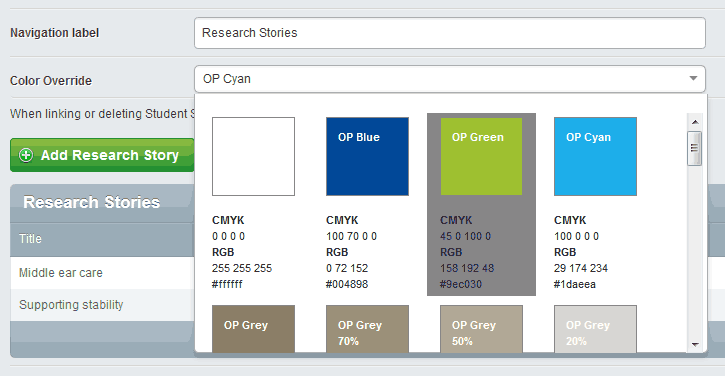
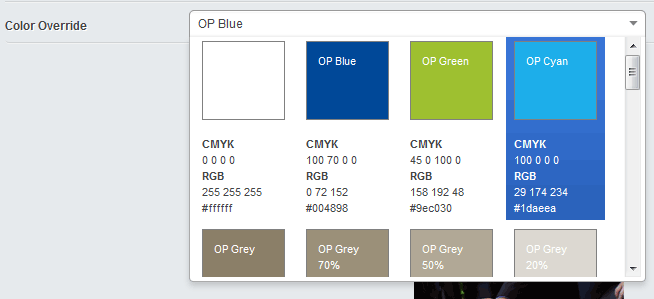
Added support to *UNIX filesystems. Fixed javascript to work better with entwine. fixed up css

diff --git a/javascript/OpColorField.js b/javascript/OpColorField.js
@@ -37,98 +37,57 @@ jQuery('.cms .field.opcolor').entwine({
 	},
 	redrawTabs: function() {
 		// adding the DOM for the  dropdown
-		var myid = jQuery(this).attr('id');
+		var selectcontainer = jQuery(this).children('.middleColumn').children('select');
+		var myid = selectcontainer.attr('id');
 		var _this = this;
+		
+		jQuery(_this).find('select').on('liszt:showing_dropdown', function () {
+			_this.find('li').hide();
+			_this.find('.chzn-search').remove();
+			rebuilddropdown(_this);
+		})
 		
 		if(jQuery('.opcolor').find('.chzn-container').size() == 0) {
 			if(jQuery(this).find('.chzn-container').size() > 0) 
 				return;
 
-			try {
-				var windowtitle = window._opcolor[myid + this.hashCode(window.location.href)];
-				//defaultColor = windowtitle;
-				jQuery(this).find('.currentTitle').html(windowtitle);
-			} catch(err) { }
-			
 			var checkColor = jQuery(this).find('.currentTitle').html();
 
-			if(checkColor == ''){
+			if(checkColor == '') {
 				defaultColor = 'Select OP Color or No Color';
 			} else {
 				defaultColor = checkColor;
 			}
-
-			var mstr = '<div id="'+myid+'_chzn" class="chzn-container chzn-container-single" style="width: 630px;">\
-				<a class="chzn-single" href="javascript:void(0)" tabindex="0">\
-					<span>'+defaultColor+'</span><div><b></b></div>\
-				</a>\
-				<div class="chzn-drop">\
-					<div class="chzn-search">\
-						<ul class="chzn-results"></ul>\
-					</div>\
-				</div>\
-			</div>';
-
-			// create dropdown events
-			jQuery(this).find('.middleColumn').append(mstr);
-			jQuery(this).find('.chzn-drop').hide();
-			jQuery(this).find('select').each(function (){jQuery(this).hide();});
-			jQuery(this).find('.chzn-single').on('click', function (e){
-				if(jQuery(this).siblings('.chzn-drop').is(":visible")) {
-					jQuery(this).siblings('.chzn-drop').hide();
-					jQuery(this).siblings('.chzn-drop li').hide();
-				} else {
-					jQuery(this).siblings('.chzn-drop').show();
-					jQuery(this).siblings('.chzn-drop li').show();
-				}
-				e.stopPropagation();
-			});
-			var options = new Array();
-			jQuery("#"+myid+" option").each(function (){
-				options.push(this);
-			});
-			// populate the dropdown field with the colors
-			jQuery("#"+myid+"_chzn .chzn-results").each(function () {
-				var resultsdiv = jQuery(this);
-				jQuery.each(options, function (index, value) {
-					var rgb = jQuery(value).attr('data-rgb');
-					var hex = jQuery(value).attr('data-hex');
-					var cmyk = jQuery(value).attr('data-cmyk');
-					var myvalue = jQuery(value).attr('value');
-					var title = jQuery(value).html();
-					var spancolor = '<span data-value=\"'+myvalue+
-						'\" data-title=\"'+title+
-						'\" class=\"chzn-oppreview\" style=\"background-color:'+hex+'\"><span>'+
-						title+'</span></span><br/>';
-					var spantext = '<strong>CMYK</strong><br/><span class=\"textColors\">'+cmyk;
-					spantext = spantext+'</span><br/><strong>RGB</strong><br/><span class=\"textColors\">'+rgb;
-					spantext = spantext+'<br/>'+hex+'</span>';
-
-					resultsdiv.append('<li class=\"chzn-opcolor active-result\">'+
-						spancolor+spantext+'</li>');
+			
+			var rebuilddropdown = function (mydropdown) {
+				var options = new Array();
+				mydropdown.find('option').each(function (){
+					options.push(this);
 				});
+				// populate the dropdown field with the colors
+				mydropdown.find(".chzn-results").each(function () {
+					var resultsdiv = mydropdown.find('.chzn-results');
+					var idcount = 0;
+					jQuery.each(options, function (index, value) {
+						var rgb = jQuery(value).attr('data-rgb');
+						var hex = jQuery(value).attr('data-hex');
+						var cmyk = jQuery(value).attr('data-cmyk');
+						var myvalue = jQuery(value).attr('value');
+						var title = jQuery(value).html();
+						var spancolor = '<span data-value=\"'+myvalue+
+							'\" data-title=\"'+title+
+							'\" class=\"chzn-oppreview\" style=\"background-color:'+hex+'\"><span>'+
+							title+'</span></span><br/>';
+						var spantext = '<strong>CMYK</strong><br/><span class=\"textColors\">'+cmyk;
+						spantext = spantext+'</span><br/><strong>RGB</strong><br/><span class=\"textColors\">'+rgb;
+						spantext = spantext+'<br/>'+hex+'</span>';
 
-				// select item
-				jQuery(this).find('li').on('click', function(e) {
-					jQuery(this).find('.chzn-oppreview').each (function(){
-						var title = jQuery(this).attr('data-title');
-						var value = jQuery(this).attr('data-value');
-						jQuery('#'+myid+' select').val(value).trigger('change');
-						jQuery('#'+myid+' .chzn-single span').html(title);
-						if(!window._opcolor) window._opcolor = {};
-						window._opcolor[myid + _this.hashCode(window.location.href)] = title;
+						myid = myid + "_o_" + (idcount++);
+						resultsdiv.append('<li class=\"chzn-opcolor active-result\" id="'+myid+'">'+
+							spancolor+spantext+'</li>');
 					});
-
-					jQuery("#"+myid+" a.chzn-single").trigger('click');
-
-					e.stopPropagation();
 				});
-				
-				// deselect
-				jQuery(document).on('click', function (){
-					jQuery(_this).find('.chzn-drop').hide();
-				});
-			});
+			}
 		}
 		this.tabs();
 	}

diff --git a/css/OpColorField.css b/css/OpColorField.css
@@ -4,8 +4,8 @@
 	margin: 0 5px 5px 0;
 	cursor: pointer;
 }
-.opcolor .chzn-results .chzn-opcolor li {
-	padding: 4px 13px
+.opcolor .chzn-container .chzn-results li {
+	padding: 4px 8px
 }
 .opcolor .chzn-results .chzn-opcolor:hover {
 	background-color: #888;

diff --git a/code/OpColorField.php b/code/OpColorField.php
@@ -3,6 +3,7 @@
 class OpColorField extends DropdownField {
     
 	public function __construct($name, $title=null, $value='', $form=null, $emptyString=null) {
+		$this->addExtraClass('dropdown');
         $source = ColourSchemes::get()->sort('ID')->map('CSSColor','OPColor');
 		parent::__construct($name, $title, $source, $value, $form, $emptyString);
         
@@ -12,6 +13,7 @@ class OpColorField extends DropdownField {
 			if($star)
 	            $this->CurrentTitle = $star->OPColor;
         }
+		
         Requirements::css(OPCOLORWORKINGFOLDER.'/css/OpColorField.css');
         Requirements::javascript(OPCOLORWORKINGFOLDER.'/javascript/OpColorField.js');
 	}
@@ -49,5 +51,6 @@ class OpColorField extends DropdownField {
         $tmp = $obj->renderWith("../themes/op/templates/Fields/OpColorField.ss");
         return $tmp;
     }
+	
 }
 

diff --git a/_config.php b/_config.php
@@ -1,9 +1,11 @@
 <?php
 
+// this allows you to put your module in the /mysite folder, as well as 
+// installing via composer.
+$base_url = str_replace(BASE_PATH, "", dirname(__FILE__));
+$base_url_unix = str_replace('\\','/',$base_url);
+$base_url_clean = ltrim($base_url_unix, '/');
 
-$base_url = str_replace(realpath ($_SERVER["DOCUMENT_ROOT"])."\\", "", realpath (dirname(__FILE__)));
-
-define("OPCOLORWORKINGFOLDER", str_replace('\\','/',$base_url));
-
+define("OPCOLORWORKINGFOLDER", $base_url_clean);
 
 Object::add_extension('CMSSettingsController', 'OpColorExtension');
